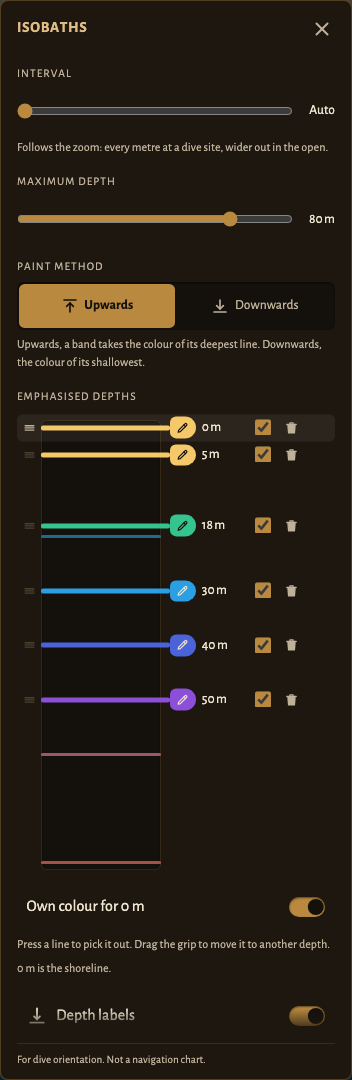
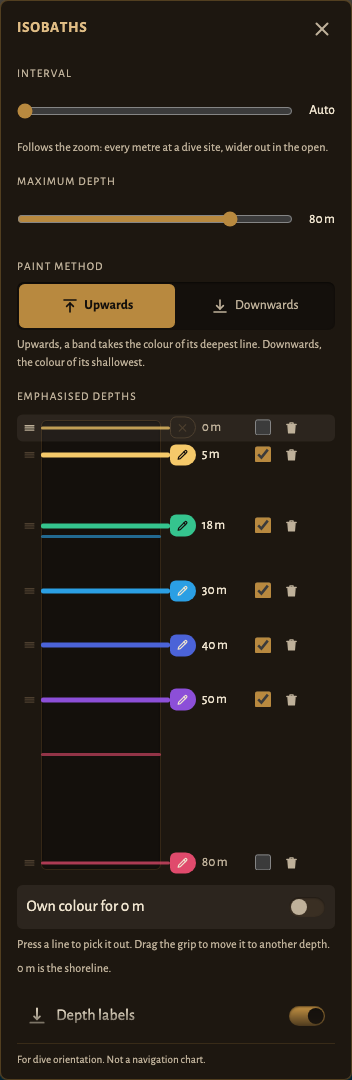
Move the end of the ruler to whichever side the paint runs from
Painting downwards a band runs from its own line to the next one down, so
the shallowest water is named by a mark on the surface and nothing names
the water under the deepest mark. Painting upwards it is the other way
round. So one end of the ruler could never be coloured, and which end
that was changed with the method.

Switching now puts a mark on the end that can carry a colour and takes
away the one that cannot: the surface going down, the maximum depth going
up. Every colour still lands on the mark that names the water it was
already on, so with both ends covered nothing is left on the depth ramp
and a switch and a switch back returns exactly what was there. Driven
through the real control: 2 m gold and 70 m red before, the same two
after, and the swatches one row along.

The mark a switch adds arrives thin. It is there to carry a colour, and a
heavy labelled line along the whole coast is not what somebody asked for
by choosing which way the paint runs. The tick beside it turns it on.

Marking one of those two lines by hand still reaches the line with no
band to paint, so the crossed-out swatch and the switch under the ruler
stay for it.

Claude-Session: https://claude.ai/code/session_01RoWy6yFnU8TMnQxSBY4rNN

diff --git a/src/lib/domain/isobaths.ts b/src/lib/domain/isobaths.ts
@@ -44,12 +44,13 @@ export interface IsobathPaint {
 	readonly method: PaintMethod;
 	readonly marks: Readonly<Record<number, MarkPaint>>;
 	/**
-	 * Whether the marked line that no band reaches keeps a colour of its own.
+	 * Whether a marked line that no band reaches keeps a colour of its own.
 	 *
-	 * One line can always end up with nothing to paint: the 0 m contour painting
-	 * upwards has no water above it, and a mark sitting on the maximum depth
-	 * painting downwards has none below. Off makes that line follow the band
-	 * beside it, so the band and its edge read as one colour.
+	 * A line can end up with nothing to paint: the 0 m contour painting upwards has
+	 * no water above it, and a mark on the maximum depth painting downwards has none
+	 * below. Switching method takes that mark off the ruler, so what is left here is
+	 * a diver who marked one of those two lines by hand. Off makes it follow the
+	 * band beside it, so the band and its edge read as one colour.
 	 */
 	readonly edgeOwnColour: boolean;
 }
@@ -294,34 +295,68 @@ export const contourDepths = (style: IsobathStyle, zoom: number): readonly numbe
 
 const withPaint = (style: IsobathStyle, paint: IsobathPaint): IsobathStyle => ({ ...style, paint });
 
+/** The mark that governs `depthM` right now, which is the one holding its colour. */
+const governorOf = (style: IsobathStyle, depthM: number): number | undefined => {
+	const depths = [...style.emphasised].sort(ascending);
+	return paintOf(style).method === 'upwards'
+		? depths.find((mark) => mark >= depthM)
+		: depths.findLast((mark) => mark <= depthM);
+};
+
 /**
- * Switching the method hands every colour to the mark that now governs its band,
- * so the water keeps the colour it was painted and the swatches move instead.
- * Upwards a band is named by the line under it and downwards by the line over it,
- * which is a shift of exactly one mark in one direction or the other.
+ * Switching the method moves the ends of the ruler and hands every colour to the
+ * mark that now governs the water it was painted on.
  *
- * The mark left without a source is the one whose band the other method leaves on
- * the depth ramp, at the shallow end going upwards and the deep end going
- * downwards, so it takes the ramp's own colour there. A colour set by hand on that
- * one mark is the only thing a switch and a switch back does not give you back.
+ * Which end can carry a colour swaps with the method. Painting downwards a band
+ * runs from its own line to the next one down, so the shallowest water is named
+ * by a mark on the surface and nothing names the water under the deepest mark;
+ * painting upwards it is the other way round. So the surface is marked going
+ * down and the maximum depth going up, and the mark at the far end, which would
+ * have a band of one line and nothing else, goes.
  *
- * The weight stays where it is. A tick belongs to a line, not to a band.
+ * Between them every colour lands on the mark that now names the water it was
+ * already on, so the map does not move and the swatches do. They arrive thin:
+ * they are there to carry a colour, and a heavy line along the whole coast is
+ * not what somebody asked for by choosing which way the paint runs.
+ *
+ * Weight stays where it is. A tick belongs to a line, not to a band.
  */
 export const withMethod = (style: IsobathStyle, method: PaintMethod): IsobathStyle => {
 	const current = paintOf(style);
 	if (current.method === method) return style;
-	const depths = [...style.emphasised].sort(ascending);
-	const towards = method === 'upwards' ? -1 : 1;
-	const moved: Record<number, MarkPaint> = {};
+
+	const named = method === 'upwards' ? style.maxDepthM : 0;
+	const spent = method === 'upwards' ? 0 : style.maxDepthM;
+	const kept = style.emphasised.filter((depthM) => depthM !== spent);
+	const depths = [...new Set(kept.length < MARK_LIMIT ? [...kept, named] : kept)].sort(ascending);
+
+	// Starts with the colours of depths that are not marked, which are remembered
+	// against a depth being put back, and takes back only what the switch can say
+	// something about.
+	const marks: Record<number, MarkPaint> = {};
+	for (const [depth, paint] of Object.entries(current.marks)) {
+		const remembered = Number(depth);
+		if (!depths.includes(remembered)) marks[remembered] = paint;
+	}
+
 	depths.forEach((depthM, index) => {
-		const source = depths[index + towards];
-		moved[depthM] = {
-			colour:
-				source === undefined ? defaultColourFor(method, depthM) : markPaint(style, source).colour,
-			plain: markPaint(style, depthM).plain
-		};
+		// The middle of the band this mark is about to govern, which is water whose
+		// colour the old method has already decided.
+		const band =
+			method === 'upwards'
+				? { from: (depths[index - 1] ?? -1) + 1, to: depthM }
+				: { from: depthM, to: (depths[index + 1] ?? style.maxDepthM + 1) - 1 };
+		const source = governorOf(style, Math.round((band.from + band.to) / 2));
+		const carried = source === undefined ? undefined : current.marks[source]?.colour;
+		const plain = current.marks[depthM]?.plain ?? depthM === named;
+		// Nothing explicit to carry and no weight to remember reads as the catalogue's
+		// own colour, which is what the two defaults already agree on band for band.
+		if (carried !== undefined || plain) {
+			marks[depthM] = { colour: carried ?? defaultColourFor(method, depthM), plain };
+		}
 	});
-	return withPaint(style, { ...current, method, marks: { ...current.marks, ...moved } });
+
+	return { ...style, emphasised: depths, paint: { ...current, method, marks } };
 };
 
 export const withEdgeOwnColour = (style: IsobathStyle, edgeOwnColour: boolean): IsobathStyle =>

diff --git a/src/lib/domain/isobaths.spec.ts b/src/lib/domain/isobaths.spec.ts
@@ -1,6 +1,7 @@
 import { describe, expect, it } from 'vitest';
 import { DEFAULT_ISOBATHS, type IsobathStyle } from './card.ts';
 import {
+	DEFAULT_PAINT,
 	type PaintMethod,
 	contourColour,
 	contourDepths,
@@ -18,15 +19,25 @@ import {
 	withoutMark
 } from './isobaths.ts';
 
-/** The wireframe's own ruler: marks at both ends of the range and five between. */
+/**
+ * The wireframe's own ruler: marks at both ends of the range and six between.
+ *
+ * Built rather than switched into, because switching moves the ends and the point
+ * of this one is to hold both of them at once, which is what the drawing shows.
+ */
 const wireframe = (method: PaintMethod): IsobathStyle => {
 	const depths = [0, 5, 18, 30, 40, 50, 65, 80];
-	const painted = depths.reduce(
+	const base: IsobathStyle = {
+		...DEFAULT_ISOBATHS,
+		emphasised: depths,
+		maxDepthM: 80,
+		paint: { ...DEFAULT_PAINT, method }
+	};
+	return depths.reduce(
 		(style, depth, index) =>
 			withColour(style, depth, ['#aa0000', '#00aa00'][index % 2] ?? '#000000'),
-		withMethod({ ...DEFAULT_ISOBATHS, emphasised: depths, maxDepthM: 80 }, method)
+		base
 	);
-	return painted;
 };
 
 const colourAt = (style: IsobathStyle, depthM: number): string =>
@@ -52,12 +63,10 @@ describe('painted bands', () => {
 		const shallow = { ...DEFAULT_ISOBATHS, emphasised: [30], maxDepthM: 80 };
 		// Upwards, nothing reaches down past 30 m.
 		expect(paintedBands(shallow).at(-1)).toEqual({ fromM: 31, toM: 80, colour: undefined });
-		// Downwards, nothing reaches up past it.
-		expect(paintedBands(withMethod(shallow, 'downwards'))[0]).toEqual({
-			fromM: 0,
-			toM: 29,
-			colour: undefined
-		});
+		// Downwards, nothing reaches up past it. Built rather than switched into,
+		// because switching to downwards is what puts a mark on the surface.
+		const downwards = { ...shallow, paint: { ...DEFAULT_PAINT, method: 'downwards' as const } };
+		expect(paintedBands(downwards)[0]).toEqual({ fromM: 0, toM: 29, colour: undefined });
 	});
 
 	it('covers every metre of the range exactly once', () => {
@@ -138,7 +147,25 @@ describe('switching which line names a band', () => {
 	it('leaves the weight of a line where the line is', () => {
 		const thin = withEmphasis(DEFAULT_ISOBATHS, 30, false);
 		const marks = depthMarks(withMethod(thin, 'downwards'));
-		expect(marks.filter((mark) => !mark.emphasised).map((mark) => mark.depthM)).toEqual([30]);
+		// 0 m is the mark the switch adds, and it arrives thin: it is there to carry
+		// a colour, not to draw a heavy line along the whole coast.
+		expect(marks.filter((mark) => !mark.emphasised).map((mark) => mark.depthM)).toEqual([0, 30]);
+	});
+
+	it('marks the end that can carry a colour and drops the end that cannot', () => {
+		const downwards = withMethod(DEFAULT_ISOBATHS, 'downwards');
+		expect(downwards.emphasised).toEqual([0, 5, 18, 30, 40, 50]);
+		expect(withMethod(downwards, 'upwards').emphasised).toEqual([5, 18, 30, 40, 50, 80]);
+	});
+
+	it('carries the colour of both end bands across the switch', () => {
+		const painted = withColour(withMethod(DEFAULT_ISOBATHS, 'downwards'), 0, '#ff0000');
+		const shallow = colourAt(painted, 2);
+		const deep = colourAt(painted, 70);
+		const upwards = withMethod(painted, 'upwards');
+		expect(shallow).toBe('#ff0000');
+		expect(colourAt(upwards, 2)).toBe(shallow);
+		expect(colourAt(upwards, 70)).toBe(deep);
 	});
 });
 
